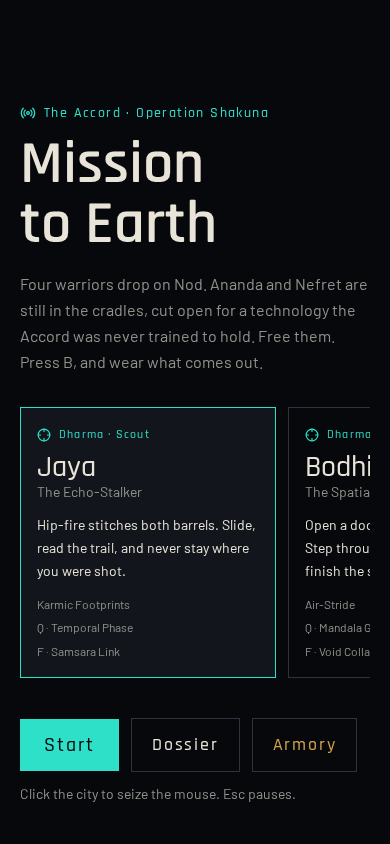
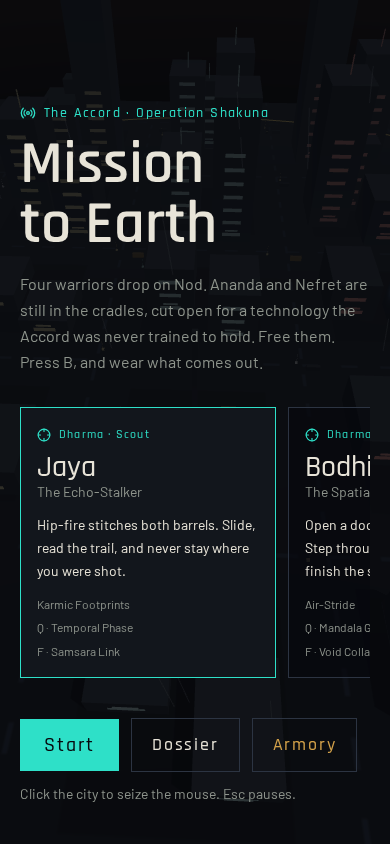
Export from Grok

diff --git a/src/game/engine.ts b/src/game/engine.ts
@@ -12,6 +12,7 @@ import { ATTACHMENT_BY_ID, compileWeapon, rollLoot, sectorLabel, sectorTier, wea
 import { generateContainerDropArray, resolveExtractionDrop } from "@/game/extraction-loot";
 import { loadMars, modsForDrop, registryForLabel, solarCoilEmits, weaponIdForRegistry, COIL_EMISSION, type ExtractedPiece } from "@/game/mars-stash";
 import { applyAimAssist, AIM_ASSIST } from "@/game/aim-assist";
+import { stepEnemyMind, type Mind } from "@/game/enemy-ai";
 import { acceptDropTicket, readAttachment, sealedModIds } from "@/game/weapon-mod";
 import { MOD_CODE, deserializeGearPacket, modCodes, packHeldGear } from "@/game/gear-packet";
 import {
@@ -59,6 +60,10 @@ type Actor = {
   corpse: number;
   blind: number;
   lift: number;
+  mind: Mind;
+  mindAge: number;
+  knownX: number;
+  knownZ: number;
   group: THREE.Group;
   bodyMat: THREE.MeshStandardMaterial;
   visorMat: THREE.MeshStandardMaterial;
@@ -790,6 +795,10 @@ export class MissionEngine {
         corpse: 0,
         blind: 0,
         lift: 0,
+        mind: "patrol",
+        mindAge: 0,
+        knownX: 0,
+        knownZ: 0,
         group: fig.group,
         bodyMat: fig.bodyMat,
         visorMat: fig.visorMat,
@@ -2648,29 +2657,45 @@ export class MissionEngine {
           tz = target.z;
         }
       } else {
-        if (actor.blind > 0) {
-          actor.aggro = 0;
-        } else {
-          const seen = this.playerVisible(actor, noise);
-          if (seen) actor.aggro = 2.8;
-          else actor.aggro = Math.max(0, actor.aggro - dt);
-        }
-        const victim = actor.aggro > 0 && actor.blind <= 0 ? this.nearestThreat(actor) : null;
-        if (victim) {
-          target = victim;
-          const d = Math.hypot(victim.x - actor.x, victim.z - actor.z);
-          const dx = victim.x - actor.x;
-          const dz = victim.z - actor.z;
-          if (d > 16) {
-            tx = victim.x;
-            tz = victim.z;
-          } else if (d < 7) {
-            tx = actor.x - dx;
-            tz = actor.z - dz;
-          } else {
-            tx = actor.x - dz;
-            tz = actor.z + dx;
+        const seen = actor.blind <= 0 && this.playerVisible(actor, noise);
+        const heard = actor.blind <= 0 && Math.hypot(this.x - actor.x, this.z - actor.z) < noise * 0.7;
+        const mind = stepEnemyMind({
+          state: actor.mind,
+          seen,
+          heard,
+          dt,
+          age: actor.mindAge,
+          lastX: actor.knownX,
+          lastZ: actor.knownZ,
+          actorX: this.x,
+          actorZ: this.z,
+        });
+        actor.mind = mind.state;
+        actor.mindAge = mind.age;
+        actor.knownX = mind.lastX;
+        actor.knownZ = mind.lastZ;
+        actor.aggro = mind.shoot ? 2.8 : mind.investigate ? 1.2 : Math.max(0, actor.aggro - dt);
+        if (mind.shoot) {
+          const victim = this.nearestThreat(actor);
+          if (victim) {
+            target = victim;
+            const d = Math.hypot(victim.x - actor.x, victim.z - actor.z);
+            const dx = victim.x - actor.x;
+            const dz = victim.z - actor.z;
+            if (d > 16) {
+              tx = victim.x;
+              tz = victim.z;
+            } else if (d < 7) {
+              tx = actor.x - dx;
+              tz = actor.z - dz;
+            } else {
+              tx = actor.x - dz;
+              tz = actor.z + dx;
+            }
           }
+        } else if (mind.investigate) {
+          tx = actor.knownX;
+          tz = actor.knownZ;
         } else {
           tx = actor.x + Math.sin(this.time * 0.4 + actor.x) * 6;
           tz = actor.z + Math.cos(this.time * 0.35 + actor.z) * 6;

diff --git a/src/game/enemy-ai.test.ts b/src/game/enemy-ai.test.ts
@@ -1,0 +1,75 @@
+import assert from "node:assert/strict";
+import { describe, it } from "node:test";
+import { stepEnemyMind } from "./enemy-ai.ts";
+
+describe("enemy mind", () => {
+  it("does not shoot on the first glimpse", () => {
+    const next = stepEnemyMind({
+      state: "patrol",
+      seen: true,
+      heard: false,
+      dt: 0.1,
+      age: 0,
+      lastX: 0,
+      lastZ: 0,
+      actorX: 4,
+      actorZ: 2,
+    });
+    assert.equal(next.state, "suspicious");
+    assert.equal(next.shoot, false);
+  });
+
+  it("engages after the suspicion window and records the last known point", () => {
+    const next = stepEnemyMind({
+      state: "suspicious",
+      seen: true,
+      heard: false,
+      dt: 0.5,
+      age: 0.4,
+      lastX: 1,
+      lastZ: 1,
+      actorX: 8,
+      actorZ: -3,
+    });
+    assert.equal(next.state, "engage");
+    assert.equal(next.shoot, true);
+    assert.equal(next.lastX, 8);
+    assert.equal(next.lastZ, -3);
+  });
+
+  it("investigates when sight is lost, then searches, then returns to patrol", () => {
+    const investigate = stepEnemyMind({
+      state: "engage",
+      seen: false,
+      heard: false,
+      dt: 0.2,
+      age: 1,
+      lastX: 12,
+      lastZ: 4,
+      actorX: 12,
+      actorZ: 4,
+    });
+    assert.equal(investigate.state, "investigate");
+    assert.equal(investigate.shoot, false);
+    const search = stepEnemyMind({ ...investigate, seen: false, heard: false, dt: 4.1, actorX: 12, actorZ: 4 });
+    assert.equal(search.state, "search");
+    const patrol = stepEnemyMind({ ...search, seen: false, heard: false, dt: 3.6, actorX: 12, actorZ: 4 });
+    assert.equal(patrol.state, "patrol");
+  });
+
+  it("does not see through a wall when the caller says unseen", () => {
+    const next = stepEnemyMind({
+      state: "patrol",
+      seen: false,
+      heard: false,
+      dt: 1,
+      age: 0,
+      lastX: 0,
+      lastZ: 0,
+      actorX: 20,
+      actorZ: 20,
+    });
+    assert.equal(next.state, "patrol");
+    assert.equal(next.shoot, false);
+  });
+});

diff --git a/src/game/enemy-ai.ts b/src/game/enemy-ai.ts
@@ -1,0 +1,58 @@
+export type Mind = "patrol" | "suspicious" | "engage" | "investigate" | "search";
+
+export type MindInput = {
+  state: Mind;
+  seen: boolean;
+  heard: boolean;
+  dt: number;
+  age: number;
+  lastX: number;
+  lastZ: number;
+  actorX: number;
+  actorZ: number;
+};
+
+export type MindOutput = {
+  state: Mind;
+  age: number;
+  lastX: number;
+  lastZ: number;
+  shoot: boolean;
+  investigate: boolean;
+};
+
+export function stepEnemyMind(input: MindInput): MindOutput {
+  const heardOrSeen = input.seen || input.heard;
+  let state = input.state;
+  let age = input.age + input.dt;
+  const lastX = heardOrSeen ? input.actorX : input.lastX;
+  const lastZ = heardOrSeen ? input.actorZ : input.lastZ;
+
+  if (input.seen) {
+    state = age < 0.45 && state !== "engage" ? "suspicious" : "engage";
+  } else if (state === "suspicious") {
+    state = "investigate";
+    age = 0;
+  } else if (state === "engage" && !input.seen) {
+    state = "investigate";
+    age = 0;
+  } else if (state === "investigate" && age > 4) {
+    state = "search";
+    age = 0;
+  } else if (state === "search" && age > 3.5) {
+    state = "patrol";
+    age = 0;
+  } else if (state === "patrol" && input.heard) {
+    state = "suspicious";
+    age = 0;
+  }
+
+  return {
+    state,
+    age,
+    lastX,
+    lastZ,
+    shoot: state === "engage",
+    investigate: state === "investigate" || state === "search",
+  };
+}

diff --git a/docs/phase0-assessment.md b/docs/phase0-assessment.md
@@ -1,0 +1,40 @@
+# Phase 0 — Architecture assessment
+
+Source inspected: [niakofa-cmyk/WFM](https://github.com/niakofa-cmyk/WFM) at `4b31352` (2026-10-20) and the current Mission To Earth tree in this workspace.
+
+## What WFM actually is
+
+WFM is a pnpm workspace for a combat-first 5v5 space game with a single-player campaign direction. It is not a ground first-person shooter.
+
+Verified in the tree:
+
+- `lib/api-spec`, `lib/api-zod`, `lib/api-client-react` — OpenAPI, Zod, generated client.
+- Express 5 API, PostgreSQL + Drizzle, Orval codegen (see `replit.md`).
+- Server-validated progression, market, inventory, world events, and side operations (`docs/verification-step9-step10.md`).
+- Product direction in `docs/player-journey-direction.md`: ship selection, readable battles, server-validated rewards, a Mars-centered universe.
+
+WFM verification at that commit reports passing typecheck, build, and automated tests in a development database. It does not certify production account flows or physical-device performance.
+
+## Classification for Mission To Earth
+
+| System | Decision |
+|---|---|
+| OpenAPI / Zod / Orval patterns | Reusable after adaptation if server-validated progression is added later |
+| Server-validated rewards, inventory, world events | Reusable concepts; not required for the local vertical slice |
+| Ship physics, space weapons, galaxy navigation | Not appropriate |
+| Auth and production account flows | Not required for the local single-player loop |
+| Three.js / WebGL client | Already in use in MTE; keep it until measured performance says otherwise |
+
+## Current Mission To Earth slice
+
+The local game already implements a collision-aware first-person controller, weapons with recoil and reload, hitscan damage, enemy line-of-sight, death and restart, and a drop-to-extraction objective. Persistence for extracted pieces is local (`localStorage` Mars stash), not server-validated.
+
+There is no `GameLoopInstanceWorker` and no dedicated multiplayer process. The match runs in the browser.
+
+## Phase 1 gap
+
+Enemy perception was a binary aggro timer. The next verified increment is an explicit mind (`patrol → suspicious → engage → investigate → search`) that does not shoot on a first glimpse and does not treat an unseen target as known.
+
+## Engine decision
+
+Stay on the existing Three.js client. Do not migrate engines on the basis of this assessment. Revisit only after a measured vertical slice on target devices.
